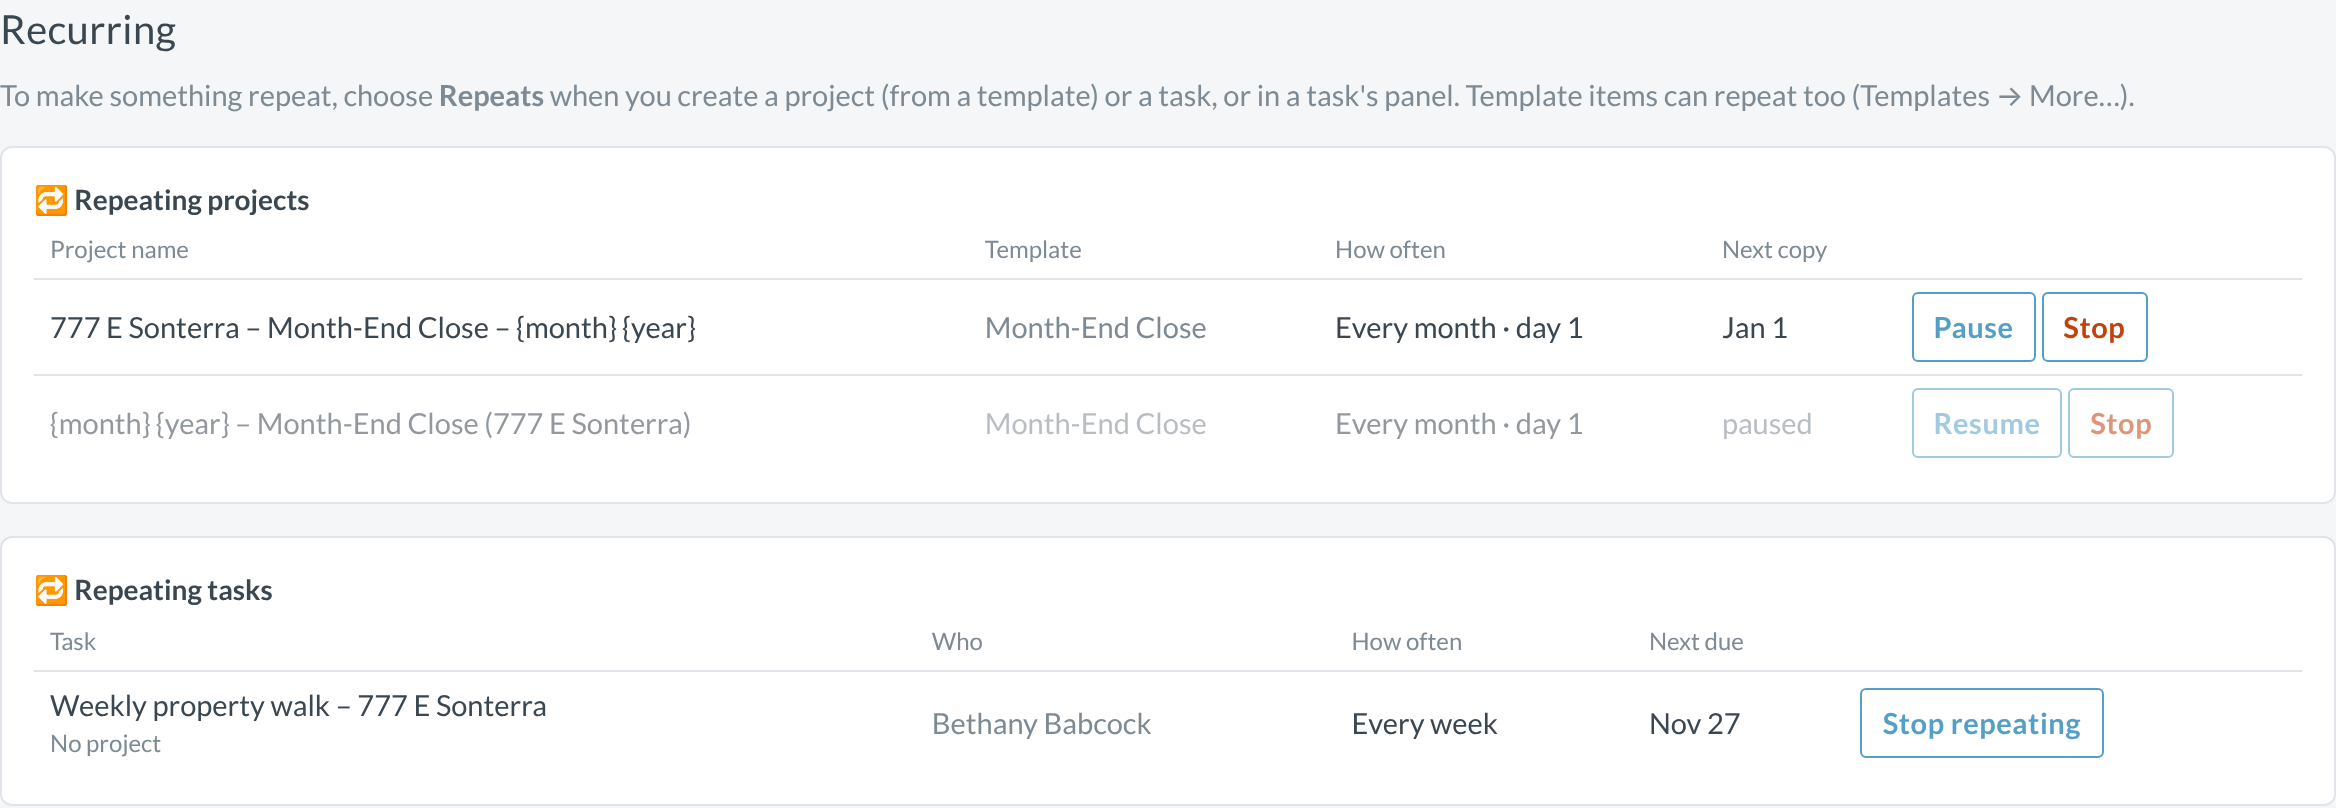
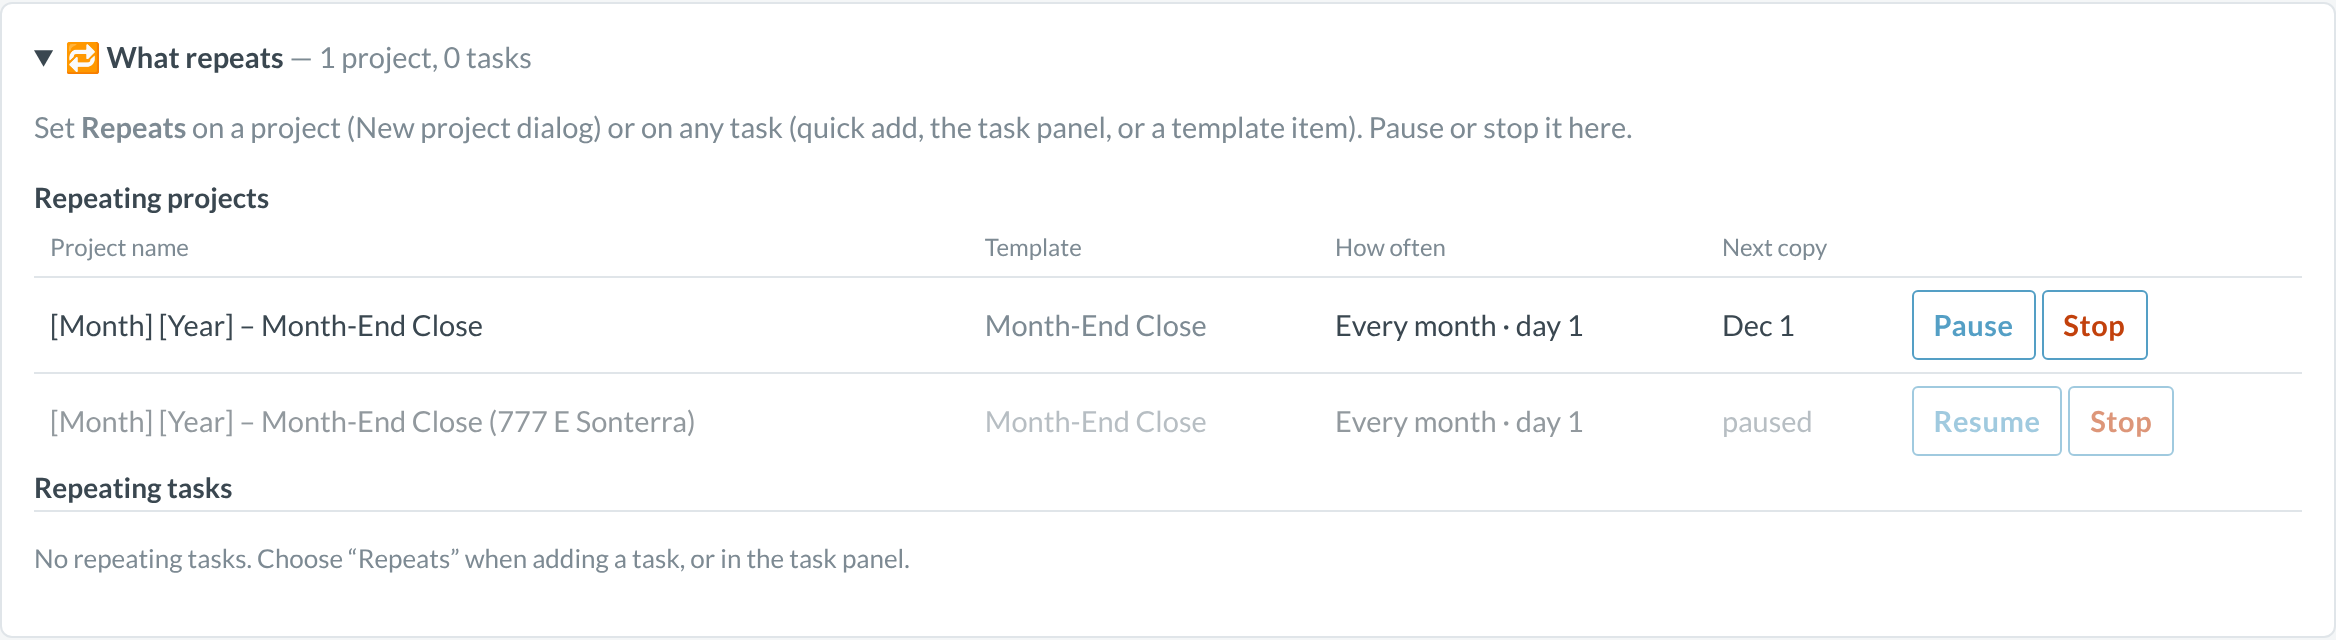
Remove Recurring from the Tasks menu; repeating items now live in a 'What repeats' box on Projects
Claude-Session: https://claude.ai/code/session_01R99bE43yZ9JYbSJRsusier

diff --git a/static/index.html b/static/index.html
@@ -159,8 +159,7 @@ input,select,textarea{border-color:#d5dce1;border-radius:3px}input:focus,select:
   <div class="dd" data-g="tasks"><button class="ddb">Tasks <span class="car">▾</span></button><div class="ddm">
     <button data-v="tasks">✓ All tasks<small>with or without a project</small></button>
     <button data-v="projects">📁 Projects<small>start a new project, see progress</small></button>
-    <button data-v="templates" class="mgr">📋 Templates<small>reusable checklists</small></button>
-    <button data-v="recurring" class="mgr">🔁 Recurring<small>everything that repeats</small></button></div></div>
+    <button data-v="templates" class="mgr">📋 Templates<small>reusable checklists</small></button></div></div>
   <button data-v="calendar">Calendar</button>
   <button data-v="team" class="mgr">By person</button>
   <div class="dd adm" data-g="admin"><button class="ddb">Admin <span class="car">▾</span></button><div class="ddm">
@@ -206,6 +205,10 @@ input,select,textarea{border-color:#d5dce1;border-radius:3px}input:focus,select:
     <span id="roleNote" class="mute"></span>
   </div>
   <div id="projects"></div>
+  <details class="card mgr" id="repeatBox"><summary><b>🔁 What repeats</b> <span class="mute" id="repeatCount"></span></summary>
+    <p class="mute">Set <b>Repeats</b> on a project (New project dialog) or on any task (quick add, the task panel, or a template item). Pause or stop it here.</p>
+    <h3>Repeating projects</h3><table id="recurring"></table>
+    <h3>Repeating tasks</h3><table id="recurTasks"></table></details>
 </section>
 
 <section id="v-calendar" class="hidden">
@@ -237,13 +240,6 @@ input,select,textarea{border-color:#d5dce1;border-radius:3px}input:focus,select:
     <div id="tItems"></div>
     <div class="row"><button class="b ghost" onclick="addItemRow()">+ Item</button><button class="b" onclick="saveTemplate()">Save template</button></div></div>
   <div id="templates"></div>
-</section>
-
-<section id="v-recurring" class="hidden">
-  <div class="pagehead"><h2>Recurring</h2></div>
-  <p class="mute" style="margin-top:-6px">To make something repeat, choose <b>Repeats</b> when you create a project (from a template) or a task, or in a task's panel. Template items can repeat too (Templates → More…).</p>
-  <div class="card"><h3>🔁 Repeating projects</h3><table id="recurring"></table></div>
-  <div class="card"><h3>🔁 Repeating tasks</h3><table id="recurTasks"></table></div>
 </section>
 
 <section id="v-people" class="hidden">
@@ -793,14 +789,15 @@ const setStatus=async(id,s)=>{await patch(id,{status:s});const t=TASKS.find(x=>x
 async function addTask(p){const t=$('#nt'+p).value;if(!t)return;await api('/api/tasks',{method:'POST',body:{project_id:p,title:t,assignee_id:+$('#na'+p).value||null,due_date:$('#nd'+p).value||null}});refresh();}
 async function renderRecurring(){const r=await api('/api/recurring');
   $('#recurring').innerHTML=r.projects.length?'<tr><th>Project name</th><th>Template</th><th>How often</th><th>Next copy</th><th></th></tr>'+r.projects.map(x=>`<tr style="${x.active?'':'opacity:.55'}">
-    <td>${esc(x.name_pattern)}${x.property?`<div class="mute" style="font-size:12px">📍 ${esc(x.property)}</div>`:''}</td><td class="mute">${esc(x.template_name)}</td><td>${esc(x.every_label)} · day ${x.day_of_month}</td>
+    <td>${esc(x.name_pattern.replace('{month}','[Month]').replace('{year}','[Year]').replace('{mm}','[MM]'))}${x.property?`<div class="mute" style="font-size:12px">📍 ${esc(x.property)}</div>`:''}</td><td class="mute">${esc(x.template_name)}</td><td>${esc(x.every_label)} · day ${x.day_of_month}</td>
     <td>${x.active?fmtDate(x.next_run):'<span class="mute">paused</span>'}</td>
     <td style="white-space:nowrap"><button class="b ghost" onclick="toggleRec(${x.id},${!x.active})">${x.active?'Pause':'Resume'}</button> <button class="b ghost" style="color:var(--bad)" onclick="delRec(${x.id})">Stop</button></td></tr>`).join('')
     :'<tr><td class="empty">No repeating projects. Choose “Repeats” in + New project (with a template).</td></tr>';
   $('#recurTasks').innerHTML=r.tasks.length?'<tr><th>Task</th><th>Who</th><th>How often</th><th>Next due</th><th></th></tr>'+r.tasks.map(t=>`<tr>
     <td><span class="tlink" onclick="openTask(${t.id})">${esc(t.title)}</span><div class="mute" style="font-size:12px">${t.is_general?'No project':esc(t.project_name)}</div></td><td class="mute">${esc(t.assignee_name)}</td>
     <td>${esc(t.repeat_label)}</td><td>${fmtDate(t.due_date)||'—'}</td><td><button class="b ghost" onclick="patch(${t.id},{repeat:''}).then(renderRecurring)">Stop repeating</button></td></tr>`).join('')
-    :'<tr><td class="empty">No repeating tasks. Choose “Repeats” when adding a task, or in the task panel.</td></tr>';}
+    :'<tr><td class="empty">No repeating tasks. Choose “Repeats” when adding a task, or in the task panel.</td></tr>';
+  $('#repeatCount').textContent=`— ${r.projects.filter(x=>x.active).length} project${r.projects.filter(x=>x.active).length===1?'':'s'}, ${r.tasks.length} task${r.tasks.length===1?'':'s'}`;}
 async function delRec(id){if(!confirm('Stop this project from repeating? Projects already created stay.'))return;await api('/api/recurrences/'+id,{method:'DELETE'});renderRecurring();}
 async function toggleRec(id,a){await api(`/api/recurrences/${id}?active=${a}`,{method:'PATCH'});renderRecurring();}
 async function addUser(){await api('/api/users',{method:'POST',body:{name:$('#uName').value,email:$('#uEmail').value,blink_user_id:$('#uBlink').value||null}});refresh();}
